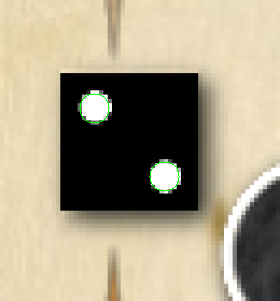
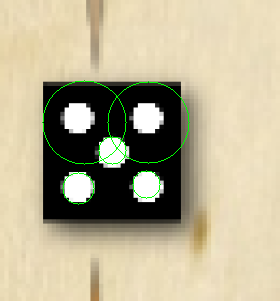
use back template matching for top left

diff --git a/app/src/calibration.py b/app/src/calibration.py
@@ -30,7 +30,7 @@ def match_keypoint(template, img, debug):
 
 def getGameBB(img):
     kps = []
-    template_gauche = cv2.imread('../data/test/menu.png', 0)
+    
     # kaze_match(img, template)
 
     img_full = img.copy()
@@ -55,10 +55,10 @@ def getGameBB(img):
 
     left_side = img[0:int(img.shape[0]/4), 0:int(img.shape[1]/4)]
 
+    template_gauche = cv2.imread('../data/test/menu_small.png', 0)
     kps.append(match_keypoint(template_gauche, left_side, "top_left"))
 
     template_droite = cv2.imread('../data/test/bas_droite.png', 0)
-    # kaze_match(img, template)
     kps.append(match_keypoint(template_droite, img_full, "bot_right"))
 
     # print(kps)
@@ -66,8 +66,8 @@ def getGameBB(img):
     top_left_pix = (0, kps[0][0][1])
     bot_right_pix = (kps[1][1][0] + BIAS_BOT_RIGHT, kps[1][1][1])
 
-    print("bot_right_pix list : ")
-    print(bot_right_pix)
+    print("top_left_pix list : ")
+    print(top_left_pix)
 
     return top_left_pix, bot_right_pix
 

diff --git a/app/src/main.py b/app/src/main.py
@@ -44,9 +44,9 @@ if __name__ == "__main__":
     # haut_gauche, bas_droite = calibration(all_screen_img_path)
     # print("calibration haut_gauche at {}".format(haut_gauche))
     # print("calibration bas_droite at  {}".format(bas_droite))
-    _, bas_droite = calibration(all_screen_img_path)
+    haut_gauche, bas_droite = calibration(all_screen_img_path)
     # hardcode haut gauche for chrome
-    haut_gauche = (0, 270)
+    # haut_gauche = (0, 270)
     # bas_droite = (2172, 1975)
 
     width = (bas_droite[0] - haut_gauche[0]) / 2
